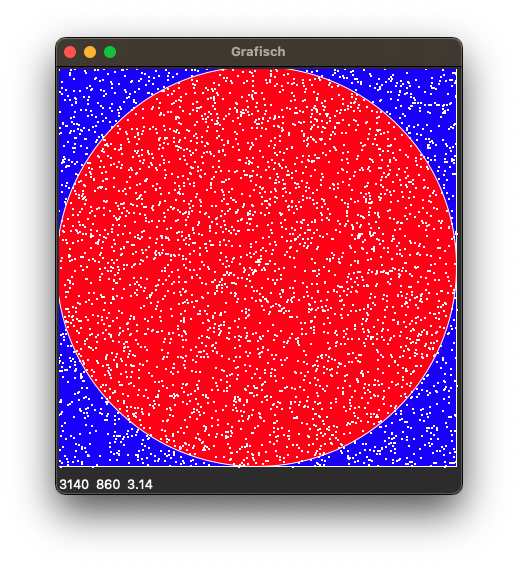
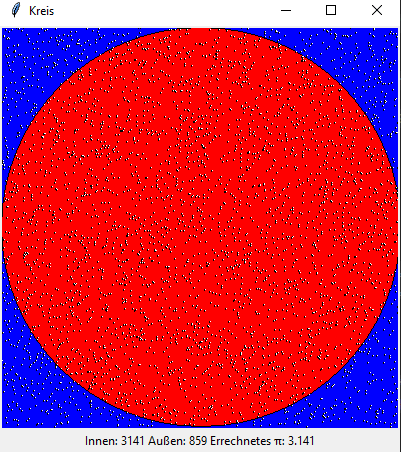
initial commit

diff --git a/main.py b/main.py
@@ -1,0 +1,30 @@
+from tkinter import *
+import numpy as np
+# Fensterconfiguration
+Fenster=Tk()
+Fenster.geometry("400x430")
+Fenster.title("Kreis")
+# Fenster.configure(bg='blue')
+# Fenster["bg"]="blue"
+# Canvas
+canvas=Canvas(width=400,height=400)
+canvas.configure(bg="blue")
+canvas.create_oval(1,1,400,400, fill="red")
+#Places
+canvas.pack()
+
+
+inside, outside = 0, 0
+
+for i in range(4000):
+    x = np.random.uniform(-1, 1)
+    y = np.random.uniform(-1, 1)
+    if x**2 + y**2 <= 1:
+        inside += 1
+    else:
+        outside += 1
+    canvas.create_oval(200+x*200, 200+y*200, 200+x*200, 200+200*y, fill="white")
+a=(f"Innen: {inside} Außen: {outside} Errechnetes π: {inside/(inside+outside)*4}")
+Anzeige=Label(text=a)
+Anzeige.pack()
+Fenster.mainloop()

diff --git a/README.md b/README.md
@@ -1,38 +1,5 @@
 # kreis-in-quadrat
-#### Wahrscheinlichkeit, dass ein zufälliger Punkt im Inkreis eines Quadrates liegt
 
-Nach Idee zweier meiner AG-Schüler hier eine Simulation um zu zeigen, dass die Wahrscheinlichkeit, dass ein zufälliger Punkt im Inkreis eines Quadrates liegt, π/4 ist.
+Diese Version ist von Lasse und Tomas.
 
-### Mathematische Herleitung
-Die Wahrscheinlichkeit, dass ein zufälliger Punkt im Inkreis eines Quadrates liegt, ist das Verhältnis der Fläche des Inkreises zur Fläche des Quadrates. Daher:
-
-$$ P = \frac{A_{Inkreis}}{A_{Quadrat}} = \frac{\pi r^2}{(2r)^2} = \frac{\pi}{4} $$
-
-### Simulation
-1. Punkt generieren
-2. Prüfen ob Punkt im Inkreis liegt
-
-$$ x^2 + y^2 \leq r $$
-
-3. Anzahl der Punkte im Inkreis zählen
-
-````python
-inside, outside = 0, 0
-
-for i in range(1000000):
-    x = np.random.uniform(-1, 1)
-    y = np.random.uniform(-1, 1)
-    if x**2 + y**2 <= 1:
-        inside += 1
-    else:
-        outside += 1
-
-print(inside / (inside + outside) * 4)
-````
-    3.140928
-
-### Ergebnis
-Das Ergebnis ist sehr nahe an π/4 bzw. an π. Je mehr Punkte generiert werden, desto näher kommt das Ergebnis an π heran.
-
-### Visualisierung
 ![Kreis im Quadrat](grafisch.png)
